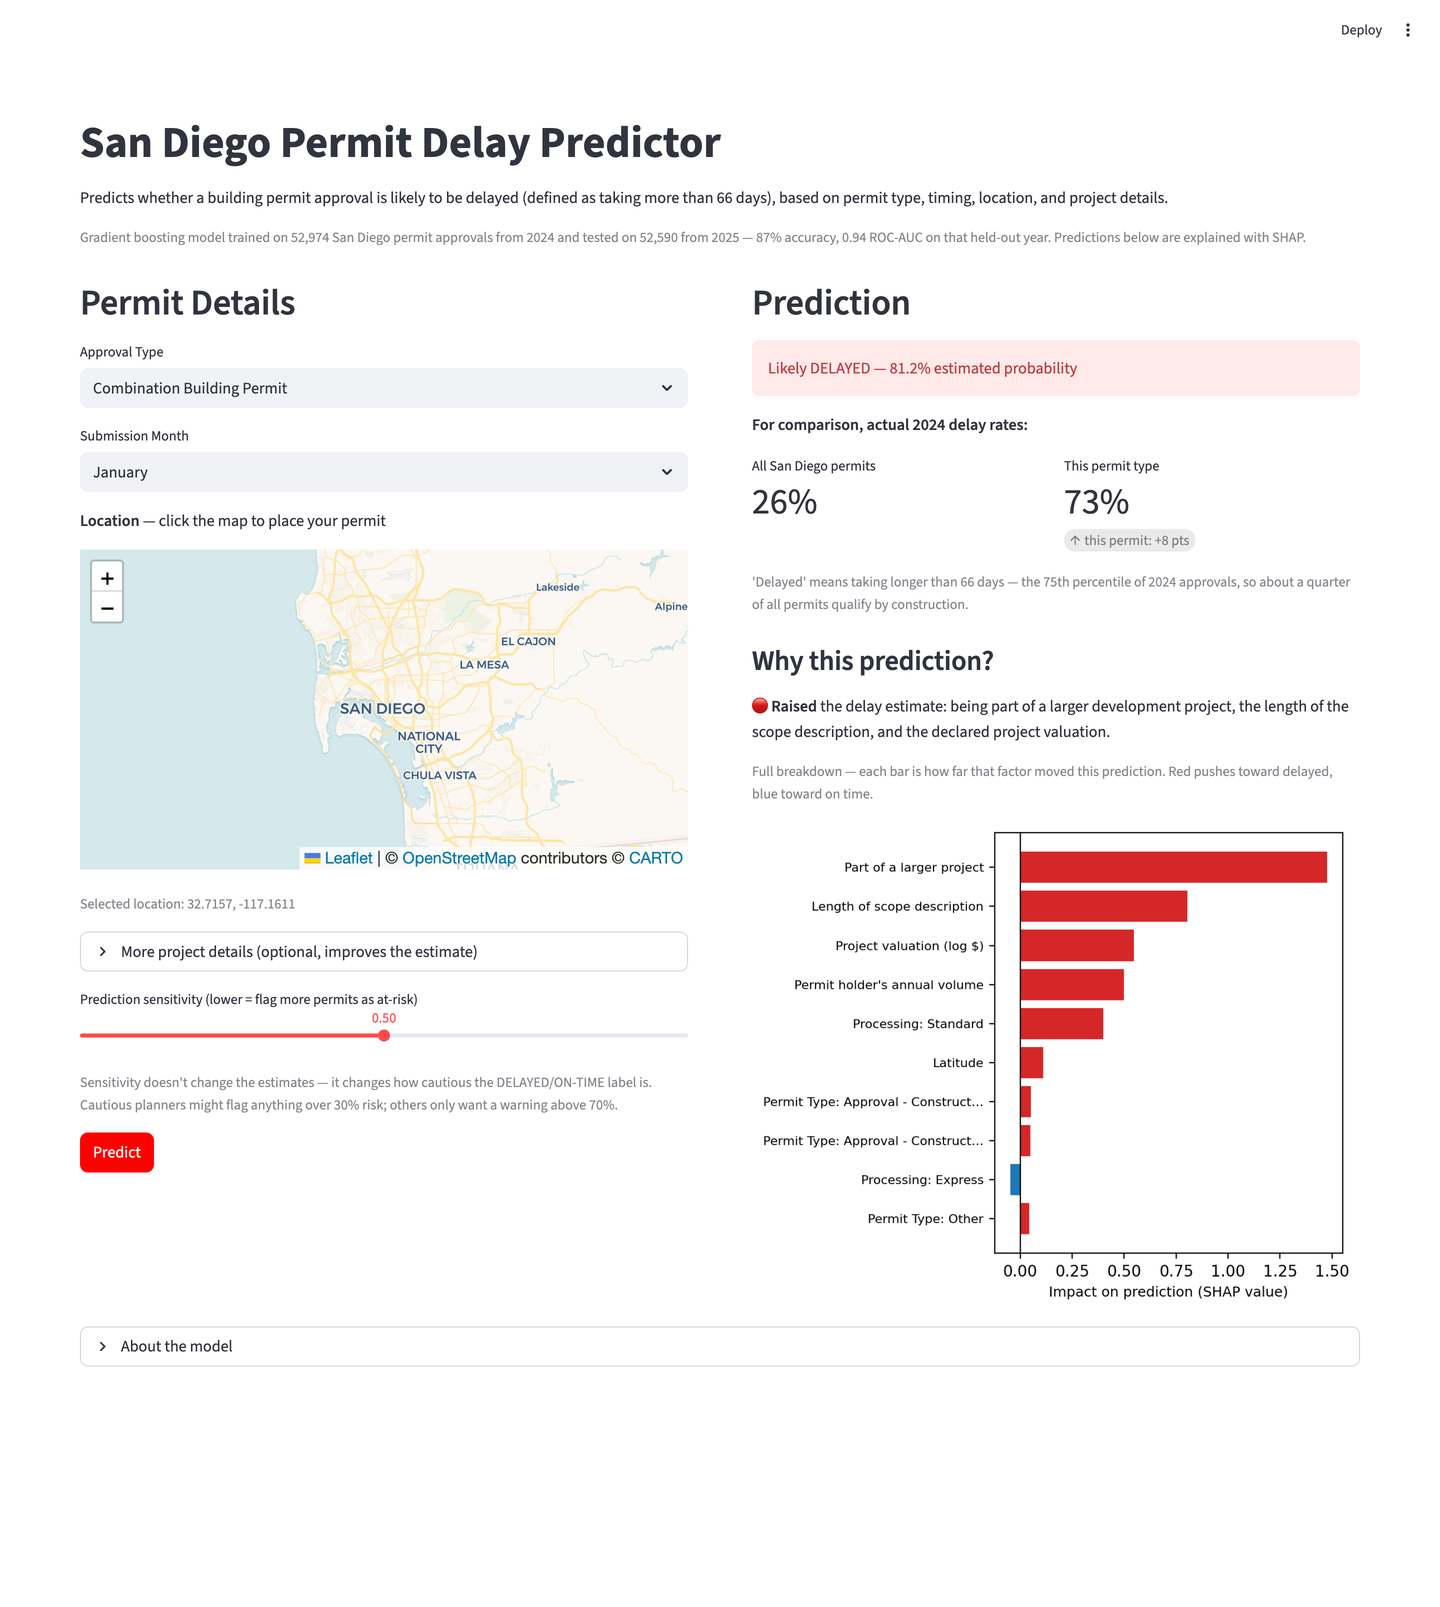
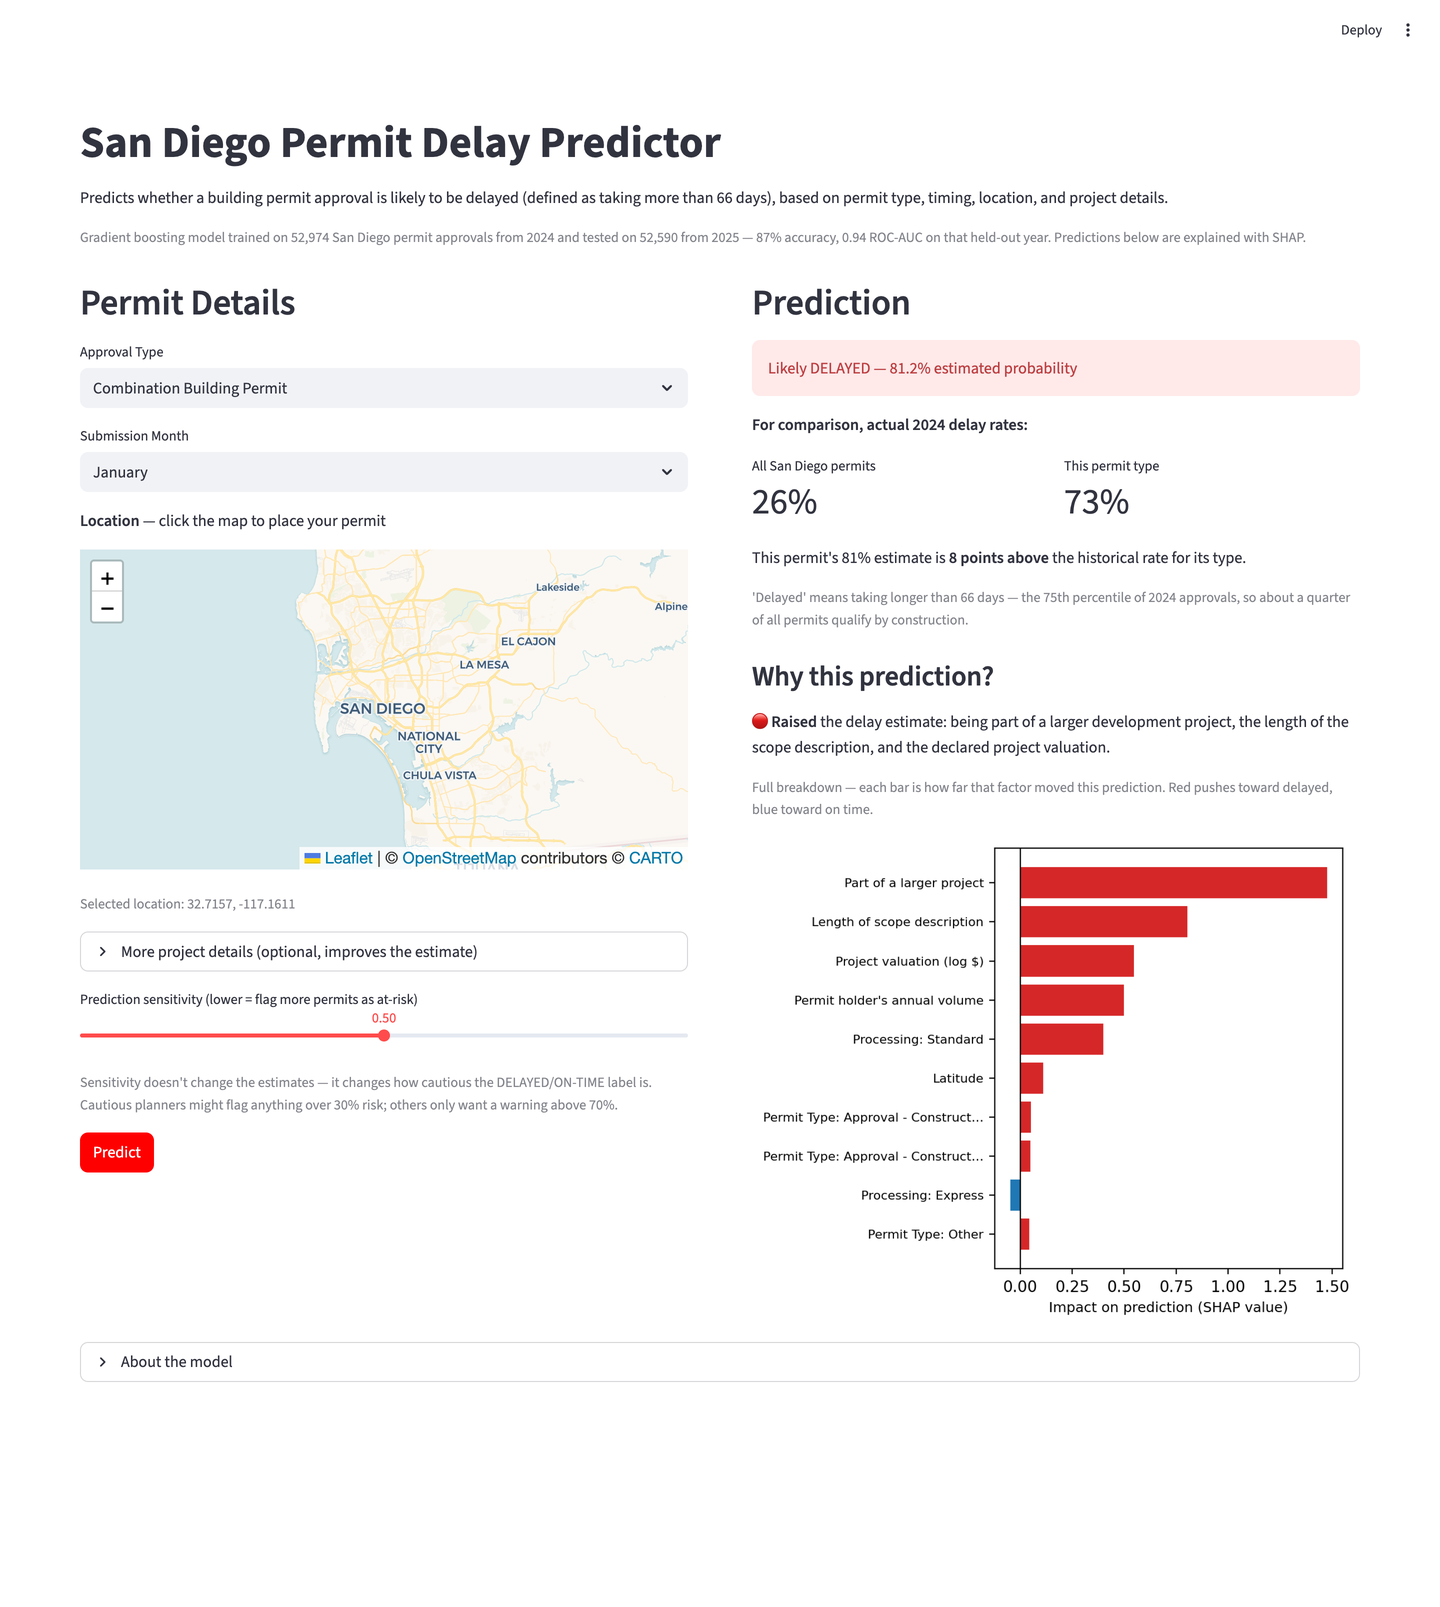
Replace ambiguous metric delta with a plain comparison sentence
The "+8 pts" delta under the permit-type base rate read as though it
modified that number, and Streamlit's delta component conventionally
means "change since last period" -- a reader hit it and had to ask what
it meant. Now stated outright: "This permit's 81% estimate is 8 points
above the historical rate for its type."

Changed region(s): [[0.5312, 0.5289, 0.9375, 0.8401], [0.5, 0.3111, 0.9375, 0.4978], [0.0938, 0.809, 0.1562, 0.8712]]

diff --git a/app.py b/app.py
@@ -191,9 +191,13 @@ with output_col:
         c1, c2 = st.columns(2)
         c1.metric("All San Diego permits", f"{overall_rate:.0%}")
         if type_rate is not None:
-            c2.metric("This permit type", f"{type_rate:.0%}",
-                      delta=f"this permit: {(probability - type_rate) * 100:+.0f} pts",
-                      delta_color="off")
+            c2.metric("This permit type", f"{type_rate:.0%}")
+            gap = (probability - type_rate) * 100
+            st.write(
+                f"This permit's {probability:.0%} estimate is "
+                f"**{abs(gap):.0f} points {'above' if gap > 0 else 'below'}** "
+                "the historical rate for its type."
+            )
         st.caption(
             f"'Delayed' means taking longer than {int(A['cutoff'])} days — the "
             "75th percentile of 2024 approvals, so about a quarter of all "

diff --git a/DECISIONS.md b/DECISIONS.md
@@ -67,7 +67,12 @@ stands on its own:
 1. **Base-rate anchors.** A bare "81.2%" means nothing without a reference
    point. The result now sits next to the observed 2024 delay rates for all
    permits (26%) and for the selected permit type (73%), computed in
-   train.py and saved as base_rates.pkl.
+   train.py and saved as base_rates.pkl. The gap between the estimate and
+   the type's rate was first shown as a Streamlit metric delta ("+8 pts"),
+   which a reader immediately misread — it sits under the 73% so it looks
+   like it modifies that number, and a delta conventionally means "change
+   since last period." Replaced with a plain sentence: "This permit's 81%
+   estimate is 8 points above the historical rate for its type."
 2. **Plain-English drivers before the chart.** Two sentences naming the top
    factors that raised and lowered the estimate, with the SHAP chart kept
    below for readers who want the magnitudes.
